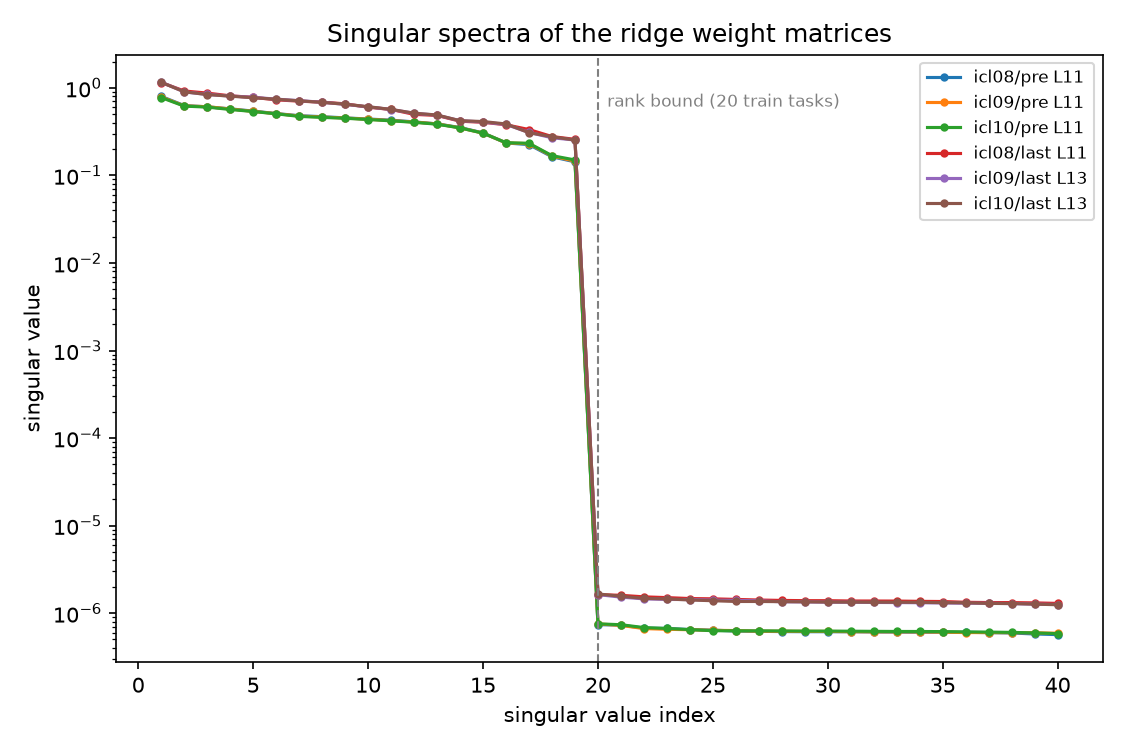
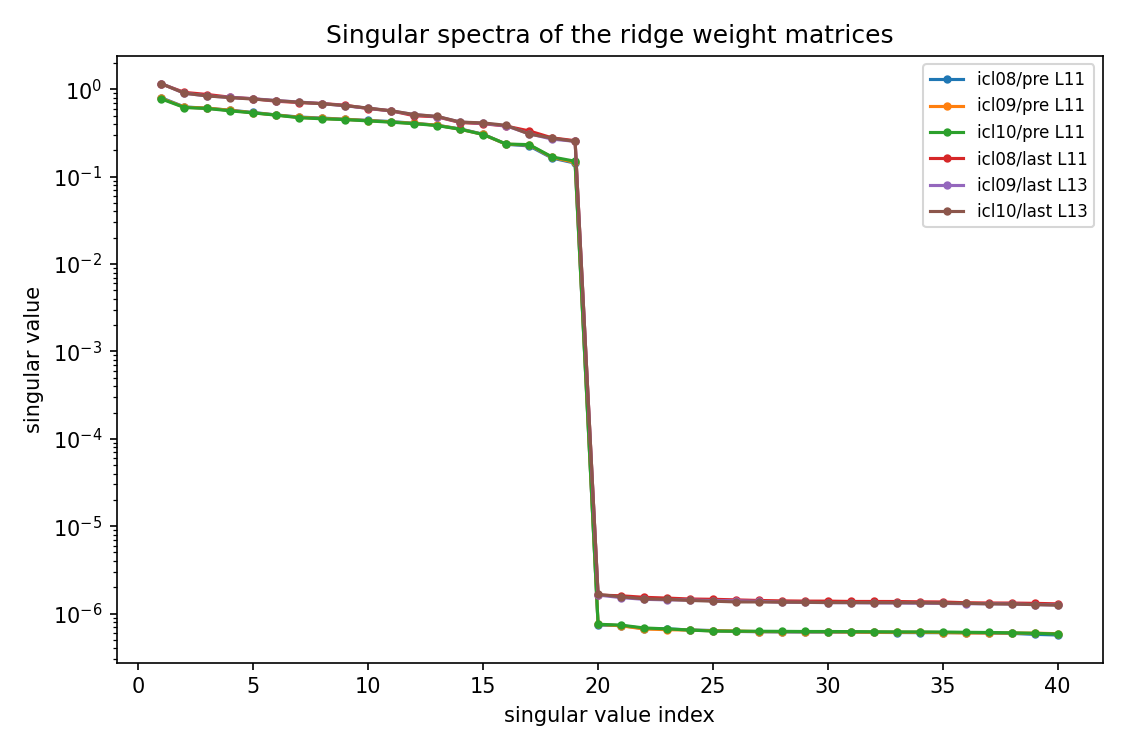
Remove rank-bound annotation from ridge weight singular spectra plot
Regenerated weight_singular_spectra.png from the stored singular values in
weight_heatmaps_summary.json (no refit); the rank<=20 explanation stays in
the code comment and summary JSON.

diff --git a/src/eval_scripts/plot_fulldim_ridge_weight_heatmaps.py b/src/eval_scripts/plot_fulldim_ridge_weight_heatmaps.py
@@ -220,8 +220,6 @@ def main():
         summary[key]["singular_values_top40"] = [float(v) for v in sv]
         ax.plot(range(1, len(sv) + 1), sv, marker="o", markersize=3, linewidth=1.5,
                 label=f"icl{icl:02d}/{ROLE_SHORT[role]} L{layer}")
-    ax.axvline(20, color="gray", linewidth=1, linestyle="--")
-    ax.text(20.4, ax.get_ylim()[1] * 0.5, "rank bound (20 train tasks)", fontsize=8, color="gray")
     ax.set_yscale("log")
     ax.set_xlabel("singular value index")
     ax.set_ylabel("singular value")
